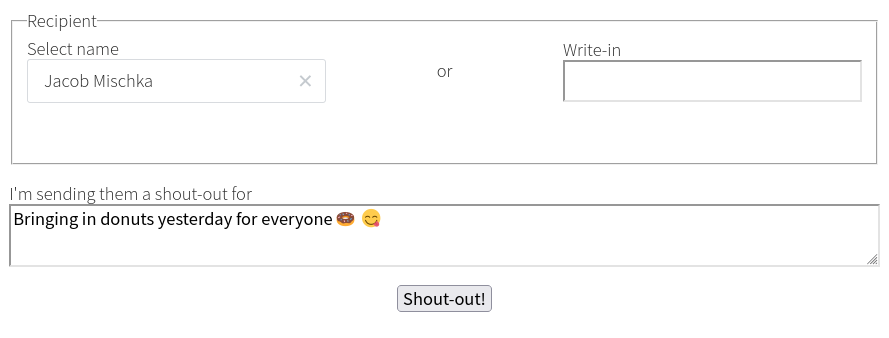
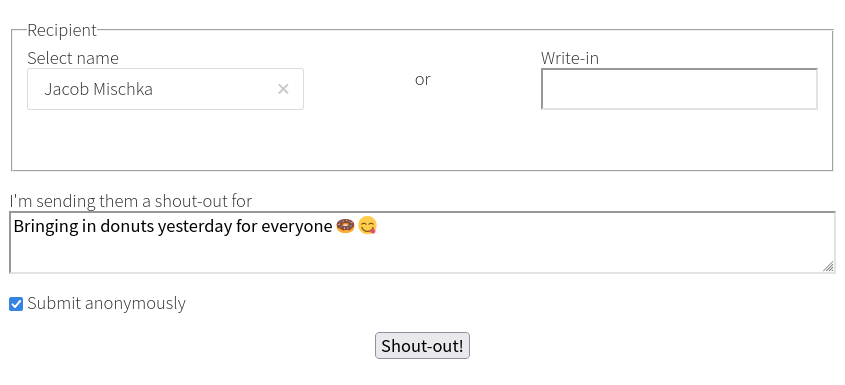
Update shoutouts readme

diff --git a/README.md b/README.md
@@ -1,7 +1,6 @@
 # Shout-outs!
 
-A simple WordPress plugin for giving anonymous shout-outs to others for all to
-see.
+A simple WordPress plugin for giving shout-outs to others for all to see.
 
 ## Form
 
@@ -9,6 +8,8 @@ see.
 
 Supports selecting registered WordPress users from a list, or entering a
 write-in if the recipient is anonymous, unknown, or a group.
+Submissions are anonymous by default, but the submitter can opt to show their
+name if logged in, or enter a name if desired or if not logged in.
 
 Use the `[shoutouts-form /]` shortcode to add to any block, page, or post.
 
@@ -28,4 +29,4 @@ Use the `[shoutouts-feed /]` shortcode to add to any block, page, or post.
 
 A complete list of all submitted shout-outs.
 
-Use the `[shoutouts-list /]` to add to any block, page, or post.
+Use the `[shoutouts-list /]` shortcode to add to any block, page, or post.
